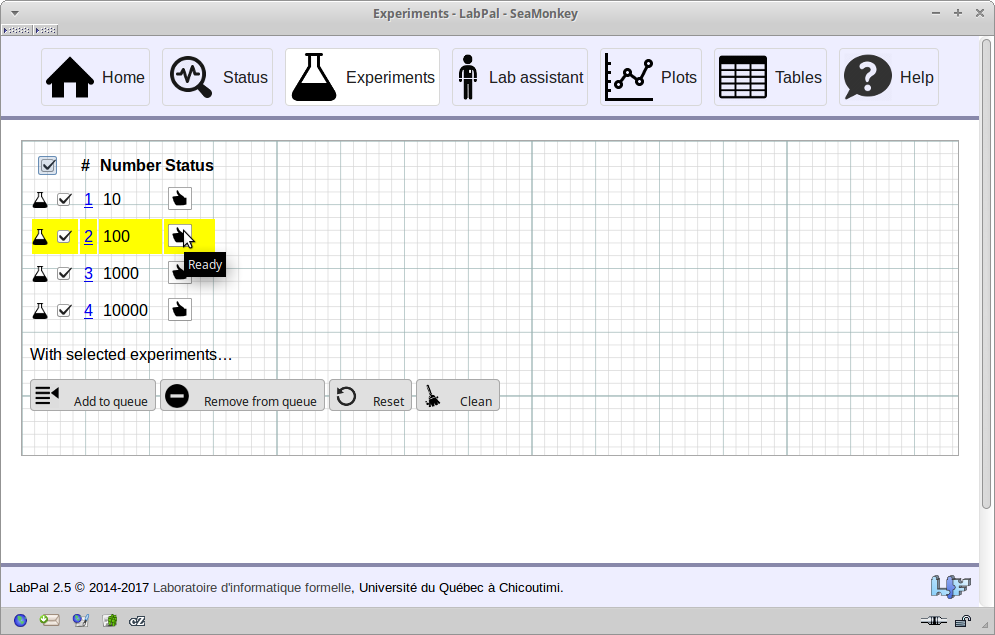
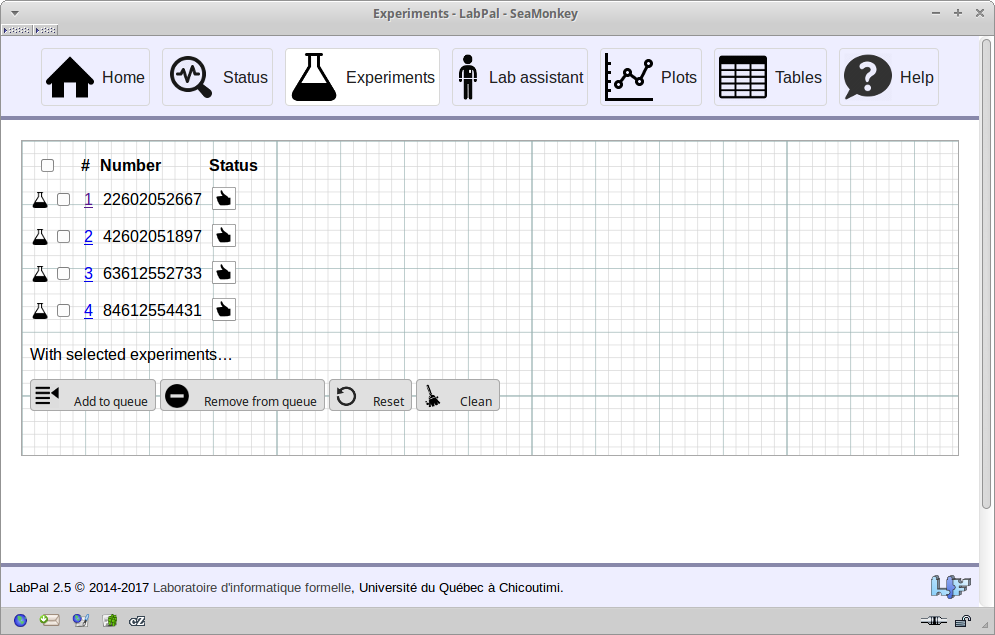
Intro page done

Changed region(s): [[0.0312, 0.2992, 0.2492, 0.5087], [0.1558, 0.2394, 0.2804, 0.2693], [0.0312, 0.2394, 0.0623, 0.2992]]

diff --git a/docs/index.md b/docs/index.md
@@ -22,14 +22,14 @@ To run experiments on a computer, you probably already write command-line script
 
 ## Learn LabPal in five minutes
 
-LabPal is easy enough to use that you can get up and running in a couple of minutes. Below is a minimal, but **complete** set of experiments for LabPal in 28 lines of code:
+LabPal is easy enough to use that you can get up and running in a couple of minutes. Below is a minimal, but **complete** set of experiments for LabPal in less than 30 lines of code:
 
 {% highlight java %}  
 class MyLaboratory extends Laboratory {
 
   public void setup() {
     ExperimentTable t = new ExperimentTable("Number", "Time");
-    for (long n : new long[]{42053447l, 1502050343l, 22602052667l})
+    for (long n : new long[]{22602052667l, 42602051897l, 63612552733l, 84612554431l})
       add(new MyExperiment(n), t);
     add(t).add(new Scatterplot(t));
   }
@@ -40,10 +40,10 @@ class MyLaboratory extends Laboratory {
     }
     
     public void execute() {
-      long n = readLong("Number");
-      long start = System.currentTimeMillis();
-      // Do something with n...
-      long end = System.currentTimeMillis();
+      BigInteger n = new BigInteger(Long.toString(readLong("Number")));
+      long start = System.nanoTime();
+      boolean b = n.isProbablePrime(1);
+      long end = System.nanoTime();
       write("Time", end - start);
     }
   }
@@ -57,18 +57,56 @@ class MyLaboratory extends Laboratory {
 In a nutshell:
 
 - Method `setup` creates a new *laboratory*, where we create a few *experiments* with different input parameters, assocaite them to a data *table*, and create a *plot* which will be drawn from the table.
-- When instantiated, our experiments declare a number as an input parameter. When executed, the experiment reads this number, does something with it, and writes as an output parameter the time it has taken to do that.
+- When instantiated, our experiments declare a number as an input parameter. When executed, the experiment reads this number, checks if it is prime, and writes as an output parameter the time it has taken to do that.
 
-What do we get in exchange for these 28 lines of code? Compile and run this file using the `--web` command-line argument. You should see a message telling you to visit `http://localhost:21212/index` in your browser.
+What do we get in exchange for these 30 lines of code? Compile and run this file using the `--web` command-line argument. You should see a message telling you to visit `http://localhost:21212/index` in your browser.
 
 If you go there, you'll see something like this:
 
-<a href="index.png"><img src="index.png" alt="Home page" width="400" /></a>
+<a href="index.png" title="Click to zoom"><img src="index.png" alt="Home page" width="400" /></a>
 
-The web interface contains a few pages, which you can access through the buttons at the top. Go to the *Experiments* page:
+The web interface contains a few pages, which you can access through the buttons at the top. Go to the *Experiments* page; there you see the list of the experiments that have been added to the lab, with the "Number" parameter that was assigned to each. The "thumbs up" icon indicates that they are ready to run. 
 
+<a href="experiments-before.png" title="Click to zoom"><img src="experiments-before-crop.png" alt="Experiments page" /></a>
 
+Select them all by clicking on the topmost checkbox, and then click on the *Add to queue* button at the bottom. You have now put these experiments in the queue, waiting to be executed. Now visit the *Lab assistant* page: this is where you manage this queue.
 
-There you see the list of the experiments that have been added to the lab
+<a href="assistant.png" title="Click to zoom"><img src="assistant-crop.png" alt="Assistant page" /></a>
+
+Click on *Start the assistant* to launch the batch execution of all the experiments you selected. These experiments run very quickly; if you go to the to the *Status* page, you'll see that they are all done:
+
+<a href="status.png" title="Click to zoom"><img src="status.png" alt="Status page" width="400" /></a>
+
+The experiments have produced results, which we have put in a table. Go to the *Tables* page, and click on the (only) table you see there, called "Table 1". There you see the results of the experiments:
+
+<a href="table.png" title="Click to zoom"><img src="table-crop.png" alt="Table page" /></a>
+
+In the tables page, note that you can also export the contents of that table in various formats (HTML, CSV, and LaTeX).
+
+Finally, go to the *Plots* page to see the plot that has been created from that table:
+
+<a href="plots.png" title="Click to zoom"><img src="plots.png" alt="Plots page" width="400" /></a>
+
+You see the plot that was created; click on it to view it full size. You can also export the plot as a PDF file; a button at the top also offers you the option to bundle all the available plots into a single, multi-page PDF.
+
+## That's it! Or not...
+
+These are just some of the features you get for writing these 30 lines of code. Among other things you get for free:
+
+- If you created your lab using our [template project](https://github.com/liflab/labpal-project), you can use Ant to compile and generate a **stand-alone JAR** file of your lab you can give to anybody so they can run these experiments by themselves (just type `ant` and you are done).
+- For a few more lines of code, the input/output parameters can come with a small **textual description** that is displayed in the web interface, so that a user can understand the meaning of each data element. You can do the same with the lab itself, and each experiment it contains.
+- You can perform transformations to the tables before plotting them, and also customize the display of your plots (scales, colors, labels) very easily.
+
+## I want to use LabPal!
+
+- Just [download the latest release](https://github.com/liflab/labpal/releases/latest) and include it in your classpath.
+- Or download our [template project](https://github.com/liflab/labpal-project) that includes a few extra features (like a boilerplate Readme and Ant build script).
+
+If you want to know more about LabPal's features:
+
+- Read the short [tutorial](quick-tutorial.html)
+- Look at our [lab examples](https://github.com/liflab/labpal/tree/master/Source/Examples/src) to learn how to use various features
+- Look at our slightly longer [instructions](instructions/)
+- Consult the online [API documentation](doc/)
 
 <!-- :wrap=soft:mode=markdown: -->
